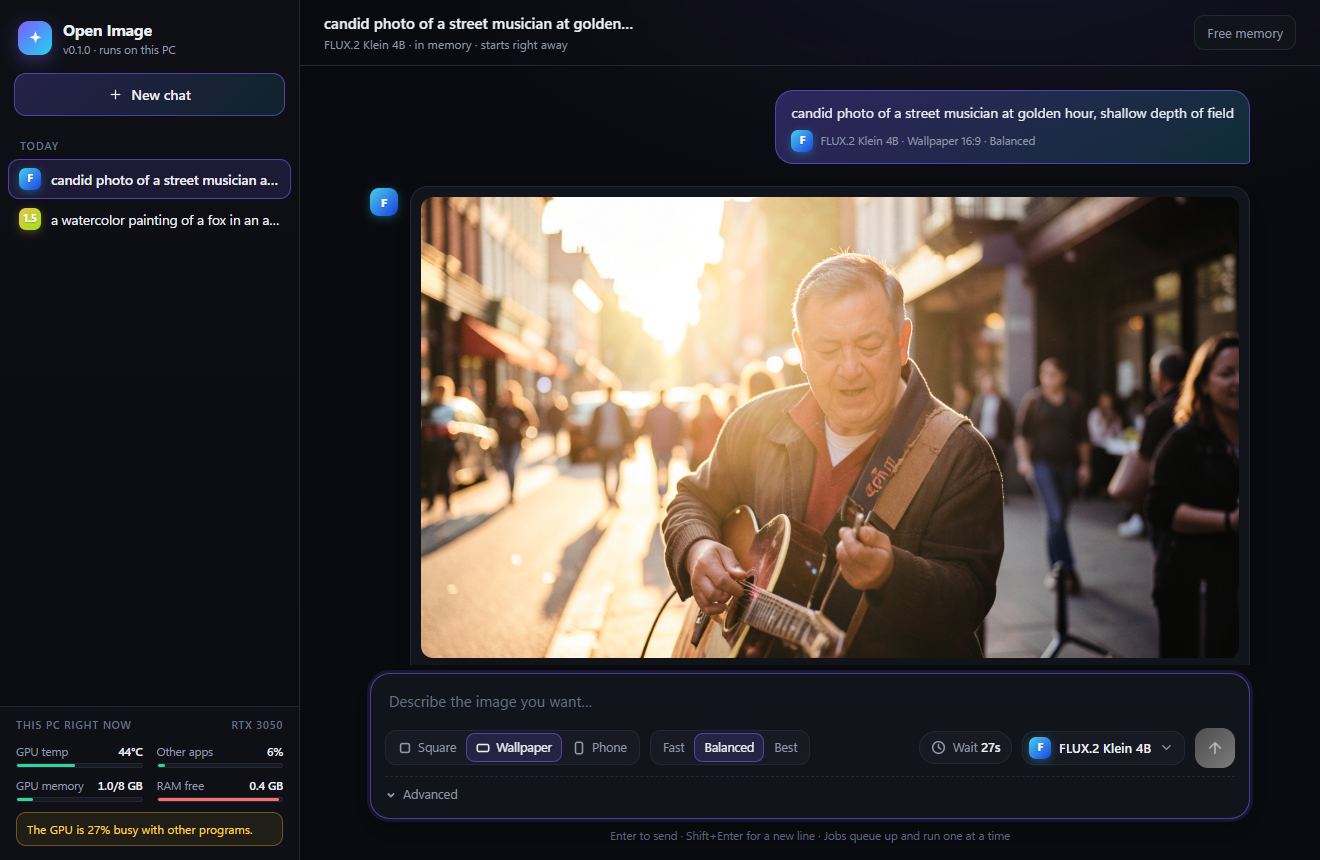
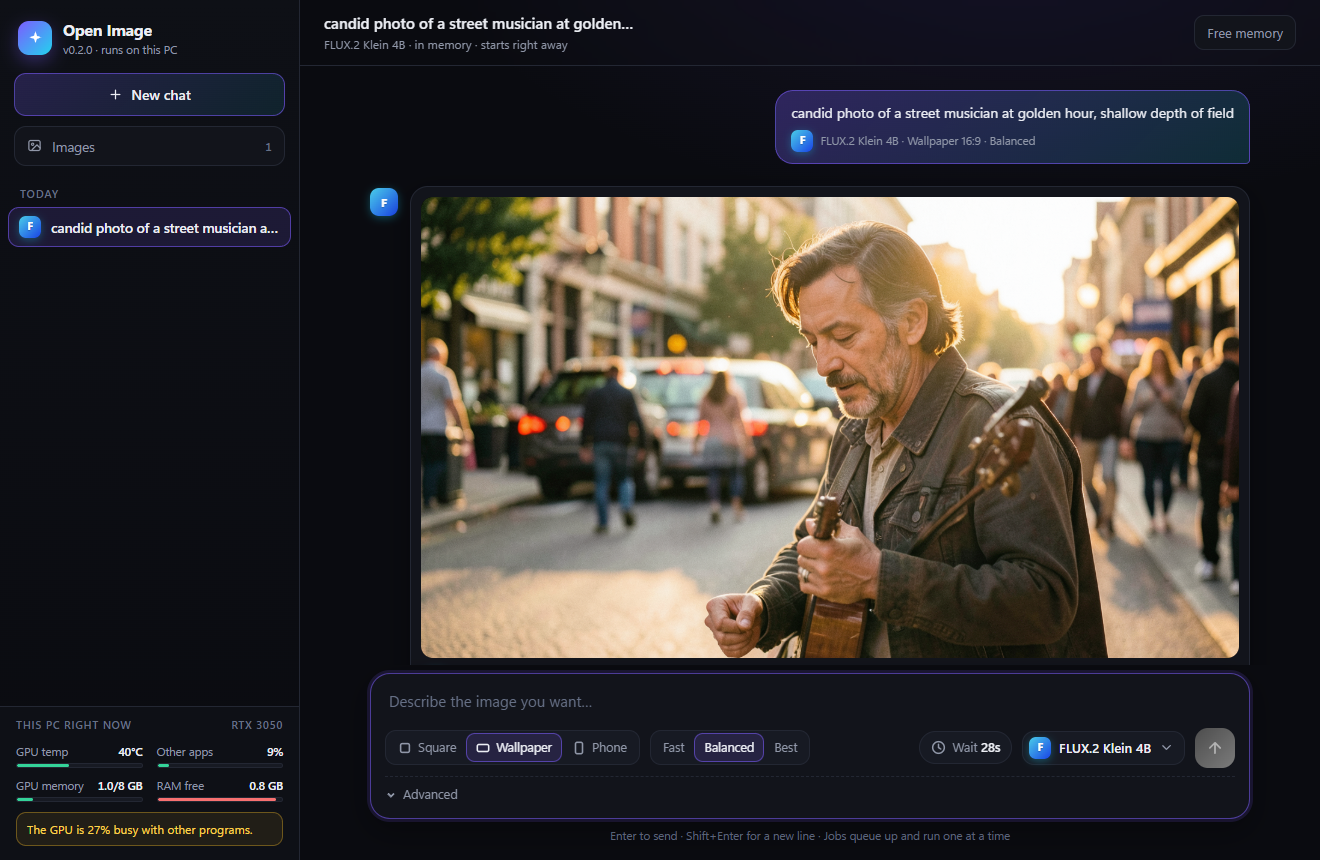
Update readme and screenshot for 0.2.0

diff --git a/README.md b/README.md
@@ -1,6 +1,6 @@
 # Open Image
 
-A local image generator with a chat interface. Pick a model, type a prompt, wait for the picture. It runs on your own GPU, keeps your chats on your own disk, and works offline once the models are downloaded.
+A local image generator with a chat interface. Pick a model, type a prompt, wait for the picture. It runs on your own GPU, keeps your chats and images on your own disk, and works offline once the models are downloaded.
 
 It is built for mid-range cards. Everything here was developed and tested on an RTX 3050 with 8 GB of VRAM and 16 GB of RAM, so the larger models are loaded in 4-bit and swapped between GPU and system memory as needed. They are slower than on a big card, but they run.
 
@@ -9,10 +9,11 @@ It is built for mid-range cards. Everything here was developed and tested on an 
 ## Features
 
 - Chat-style interface. Chats are saved on your machine, can be renamed, and remember the model last used in each.
-- Eight models to choose from, from a 4 second Stable Diffusion 1.5 up to Qwen Image 2.1. See the table below.
-- A wait estimate for every model before you send. It starts from measured speeds and then follows what your own machine actually does, adjusted for other programs using the GPU, GPU temperature, free RAM, and jobs already queued.
+- An Images page with everything you have made, from every chat. Filter by model, open any image for its prompt and settings, reuse them, or delete it.
+- Ten models, installed and removed from inside the app. A filter shows the uncensored ones, including the ones you haven't downloaded yet.
+- A wait estimate for every model before you send. It learns from your own machine: each finished image is recorded together with how busy the GPU was with other programs, free RAM and GPU temperature, and later estimates lean on the runs that happened under similar conditions. It starts from defaults measured on an RTX 3050 and gets more accurate the more you use it.
 - Square, 16:9 wallpaper, and 9:16 phone shapes. Fast, balanced, and best quality presets.
-- Guard rails so a heavy model can't freeze the PC: GPU memory is capped, a watchdog stops the run if RAM is about to run out, and a hot GPU gets paused between steps.
+- Guard rails so a heavy model can't freeze the PC: GPU memory is capped, a watchdog stops the run if the system starts paging heavily, and a hot GPU gets paused between steps.
 - Jobs are queued and run one at a time. One model stays in memory and is released after 15 minutes idle.
 
 ## Requirements
@@ -34,12 +35,6 @@ pip install torch --index-url https://download.pytorch.org/whl/cu128
 pip install -r requirements.txt
 ```
 
-Download the models you want. `python -m open_image models` lists them, and `all` fetches everything.
-
-```
-python -m open_image download flux2-klein-4b z-image-turbo
-```
-
 Start the app:
 
 ```
@@ -48,6 +43,13 @@ python -m open_image
 
 On Windows you can also double-click `run.bat`. The app opens in its own window; if Edge isn't installed it opens in your default browser at http://127.0.0.1:7860.
 
+Models are installed from the app: open the model picker at the bottom right of the chat box and choose Manage models. You can also use the command line:
+
+```
+python -m open_image models
+python -m open_image download flux2-klein-4b z-image-turbo
+```
+
 ## Models
 
 | Model | Id | Download | Notes |
@@ -55,13 +57,17 @@ On Windows you can also double-click `run.bat`. The app opens in its own window;
 | Qwen Image 2.1 | `qwen-image-21` | ~31 GB | Best quality and text. Slowest, reloads for every image |
 | FLUX.2 Klein 4B | `flux2-klein-4b` | ~15 GB | Fast, photorealistic |
 | Z-Image Turbo | `z-image-turbo` | ~33 GB | Fast all-rounder |
-| Chroma HD | `chroma1-hd` | ~26 GB | FLUX-style, no built-in content filter |
-| Pony Diffusion V6 XL | `pony-v6-xl` | ~7 GB | Stylized and anime, tag prompts, no built-in content filter |
-| WAI Illustrious v14 | `wai-illustrious` | ~7 GB | Anime illustration, tag prompts, no built-in content filter |
+| Chroma HD | `chroma1-hd` | ~26 GB | FLUX-style, uncensored |
+| Pony Diffusion V6 XL | `pony-v6-xl` | ~7 GB | Stylized and anime, tag prompts, uncensored |
+| Prefect Pony XL v5 | `prefect-pony-xl` | ~6.5 GB | Pony-based, cleaner anatomy, uncensored |
+| WAI Illustrious v14 | `wai-illustrious` | ~7 GB | Anime illustration, tag prompts, uncensored |
+| NoobAI XL 1.1 | `noobai-xl` | ~6.5 GB | Illustrious-based anime, huge tag set, uncensored |
 | Stable Diffusion XL 1.0 | `sdxl-base` | ~7 GB | The classic |
 | Stable Diffusion 1.5 | `sd15` | ~3 GB | Tiny and very fast |
 
-Models come from Hugging Face and each keeps its own license. Check the model page before using output commercially. Several of these models have no content filter of their own, and Open Image doesn't add one, so what you make with them is up to you.
+Models come from Hugging Face and each keeps its own license. Check the model page before using output commercially.
+
+"Uncensored" here means the model has no built-in content filter and was trained on a broad range of material. Open Image doesn't add a filter of its own, so what you make with them is up to you.
 
 Typical times on an RTX 3050 8 GB at the default size, balanced quality: Stable Diffusion 1.5 about 20 s, SDXL and the anime models about 35 s, FLUX.2 Klein about 15 s once loaded, Z-Image Turbo about 45 s, Chroma HD about 4 min, Qwen Image 2.1 about 3 min plus about a minute of loading.
 
@@ -72,26 +78,27 @@ Everything lives under one folder, `~/OpenImage` by default:
 ```
 models/   downloaded models
 images/   generated pictures
-data/     chats, history, timing data, logs
+data/     chats, history, timing data, thumbnails, logs
 ```
 
 Set `OPEN_IMAGE_HOME` to use a different folder, for example a bigger drive. `OPEN_IMAGE_PORT` changes the port.
 
 ## How it works
 
-The web server (FastAPI) never loads a model itself. Each model runs in a separate worker process that talks to the server over a pipe. If a model runs out of memory or the guard stops it, only that worker dies, and the app reports what happened.
+The web server (FastAPI) never loads a model itself. Each model runs in a separate worker process that talks to the server over a pipe. If a model runs out of memory or the guard stops it, only that worker dies, and the app reports what happened. Model downloads also run as their own process, so they can be cancelled and resumed.
 
 - `open_image/catalog.py` is the model list: names, settings, download rules.
 - `open_image/engines.py` has the loaders for each model family.
 - `open_image/guard.py` holds the memory and temperature limits.
 - `open_image/timing.py` and `resources.py` produce the wait estimates.
+- `open_image/installs.py` installs and removes models.
 - `open_image/jobs.py` is the queue, chat storage, and worker management.
 
 To add a model, add an entry to `catalog.py` and, if it is a new architecture, a loader in `engines.py`.
 
 ## Status
 
-Version 0.1. Things that are known to be missing: a model download button in the app (use the command line for now), image-to-image and editing, and Linux testing.
+Version 0.2. Not done yet: image-to-image and editing, and testing on Linux.
 
 ## License
 
